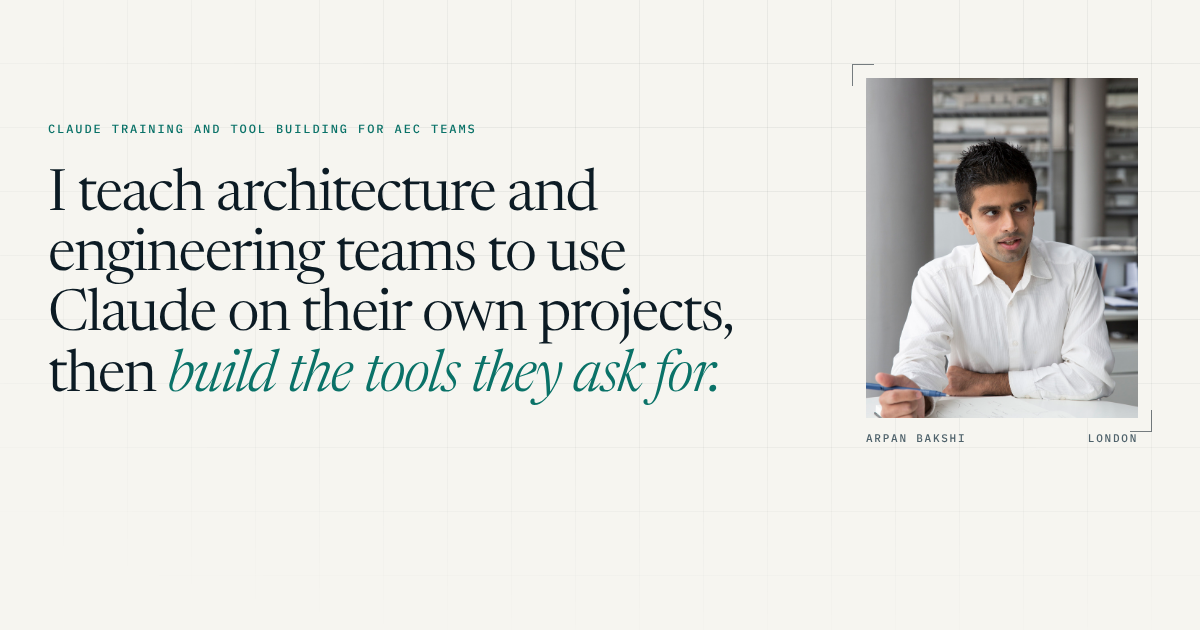
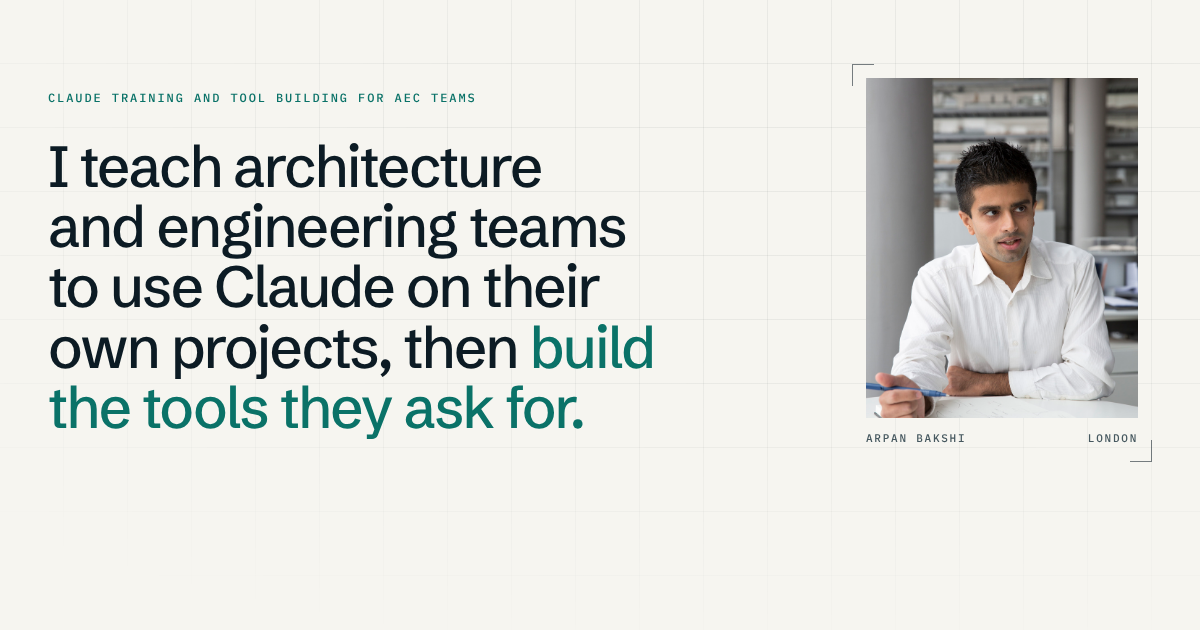
Refresh the link-preview image and README for the redesign
Claude-Session: https://claude.ai/code/session_01VhwEuwwshcQP2mzFdByyMX

Changed region(s): [[0.0308, 0.1508, 0.6167, 0.6937]]

diff --git a/README.md b/README.md
@@ -6,11 +6,16 @@ It is a static single page with no build step. Edit the files directly and push 
 
 | Path | Contents |
 | --- | --- |
-| `index.html` | All page content: hero, work, services, approach, engagements, about and contact |
+| `index.html` | All page content: hero, work, method, services, about, contact, and the seven case-study sheets |
 | `assets/css/site.css` | Styles, with the colour and type tokens at the top |
-| `assets/js/site.js` | Hero network animation, walkthrough stepper, demo video player, navigation |
-| `assets/img/work/` | A hero image and six walkthrough screenshots for each of the seven tools |
+| `assets/js/site.js` | Navigation, case-study sheets, walkthrough steps, demo video, copy button |
+| `assets/js/stories.js` | The seven animated tool stories, each with a wide and a phone layout |
+| `assets/js/southwark-data.js` | Southwark ward outlines and a sample of 1,700 homes, from the atlas data |
+| `assets/js/world-data.js` | Land cells for the world map, from Natural Earth via world-atlas |
+| `assets/img/work/` | Six walkthrough screenshots for each tool |
+| `assets/img/cards/` | Still images shown when scripts are off |
+| `assets/img/posters/` | First frames for the demo videos |
 | `assets/video/` | One demo video per tool (H.264 MP4) |
-| `assets/fonts/` | Inter and IBM Plex Mono, self-hosted |
+| `assets/fonts/` | Schibsted Grotesk, Inter and IBM Plex Mono, self-hosted (SIL Open Font License) |
 
 To preview locally, run `npx serve .` in this folder and open the address it prints.
